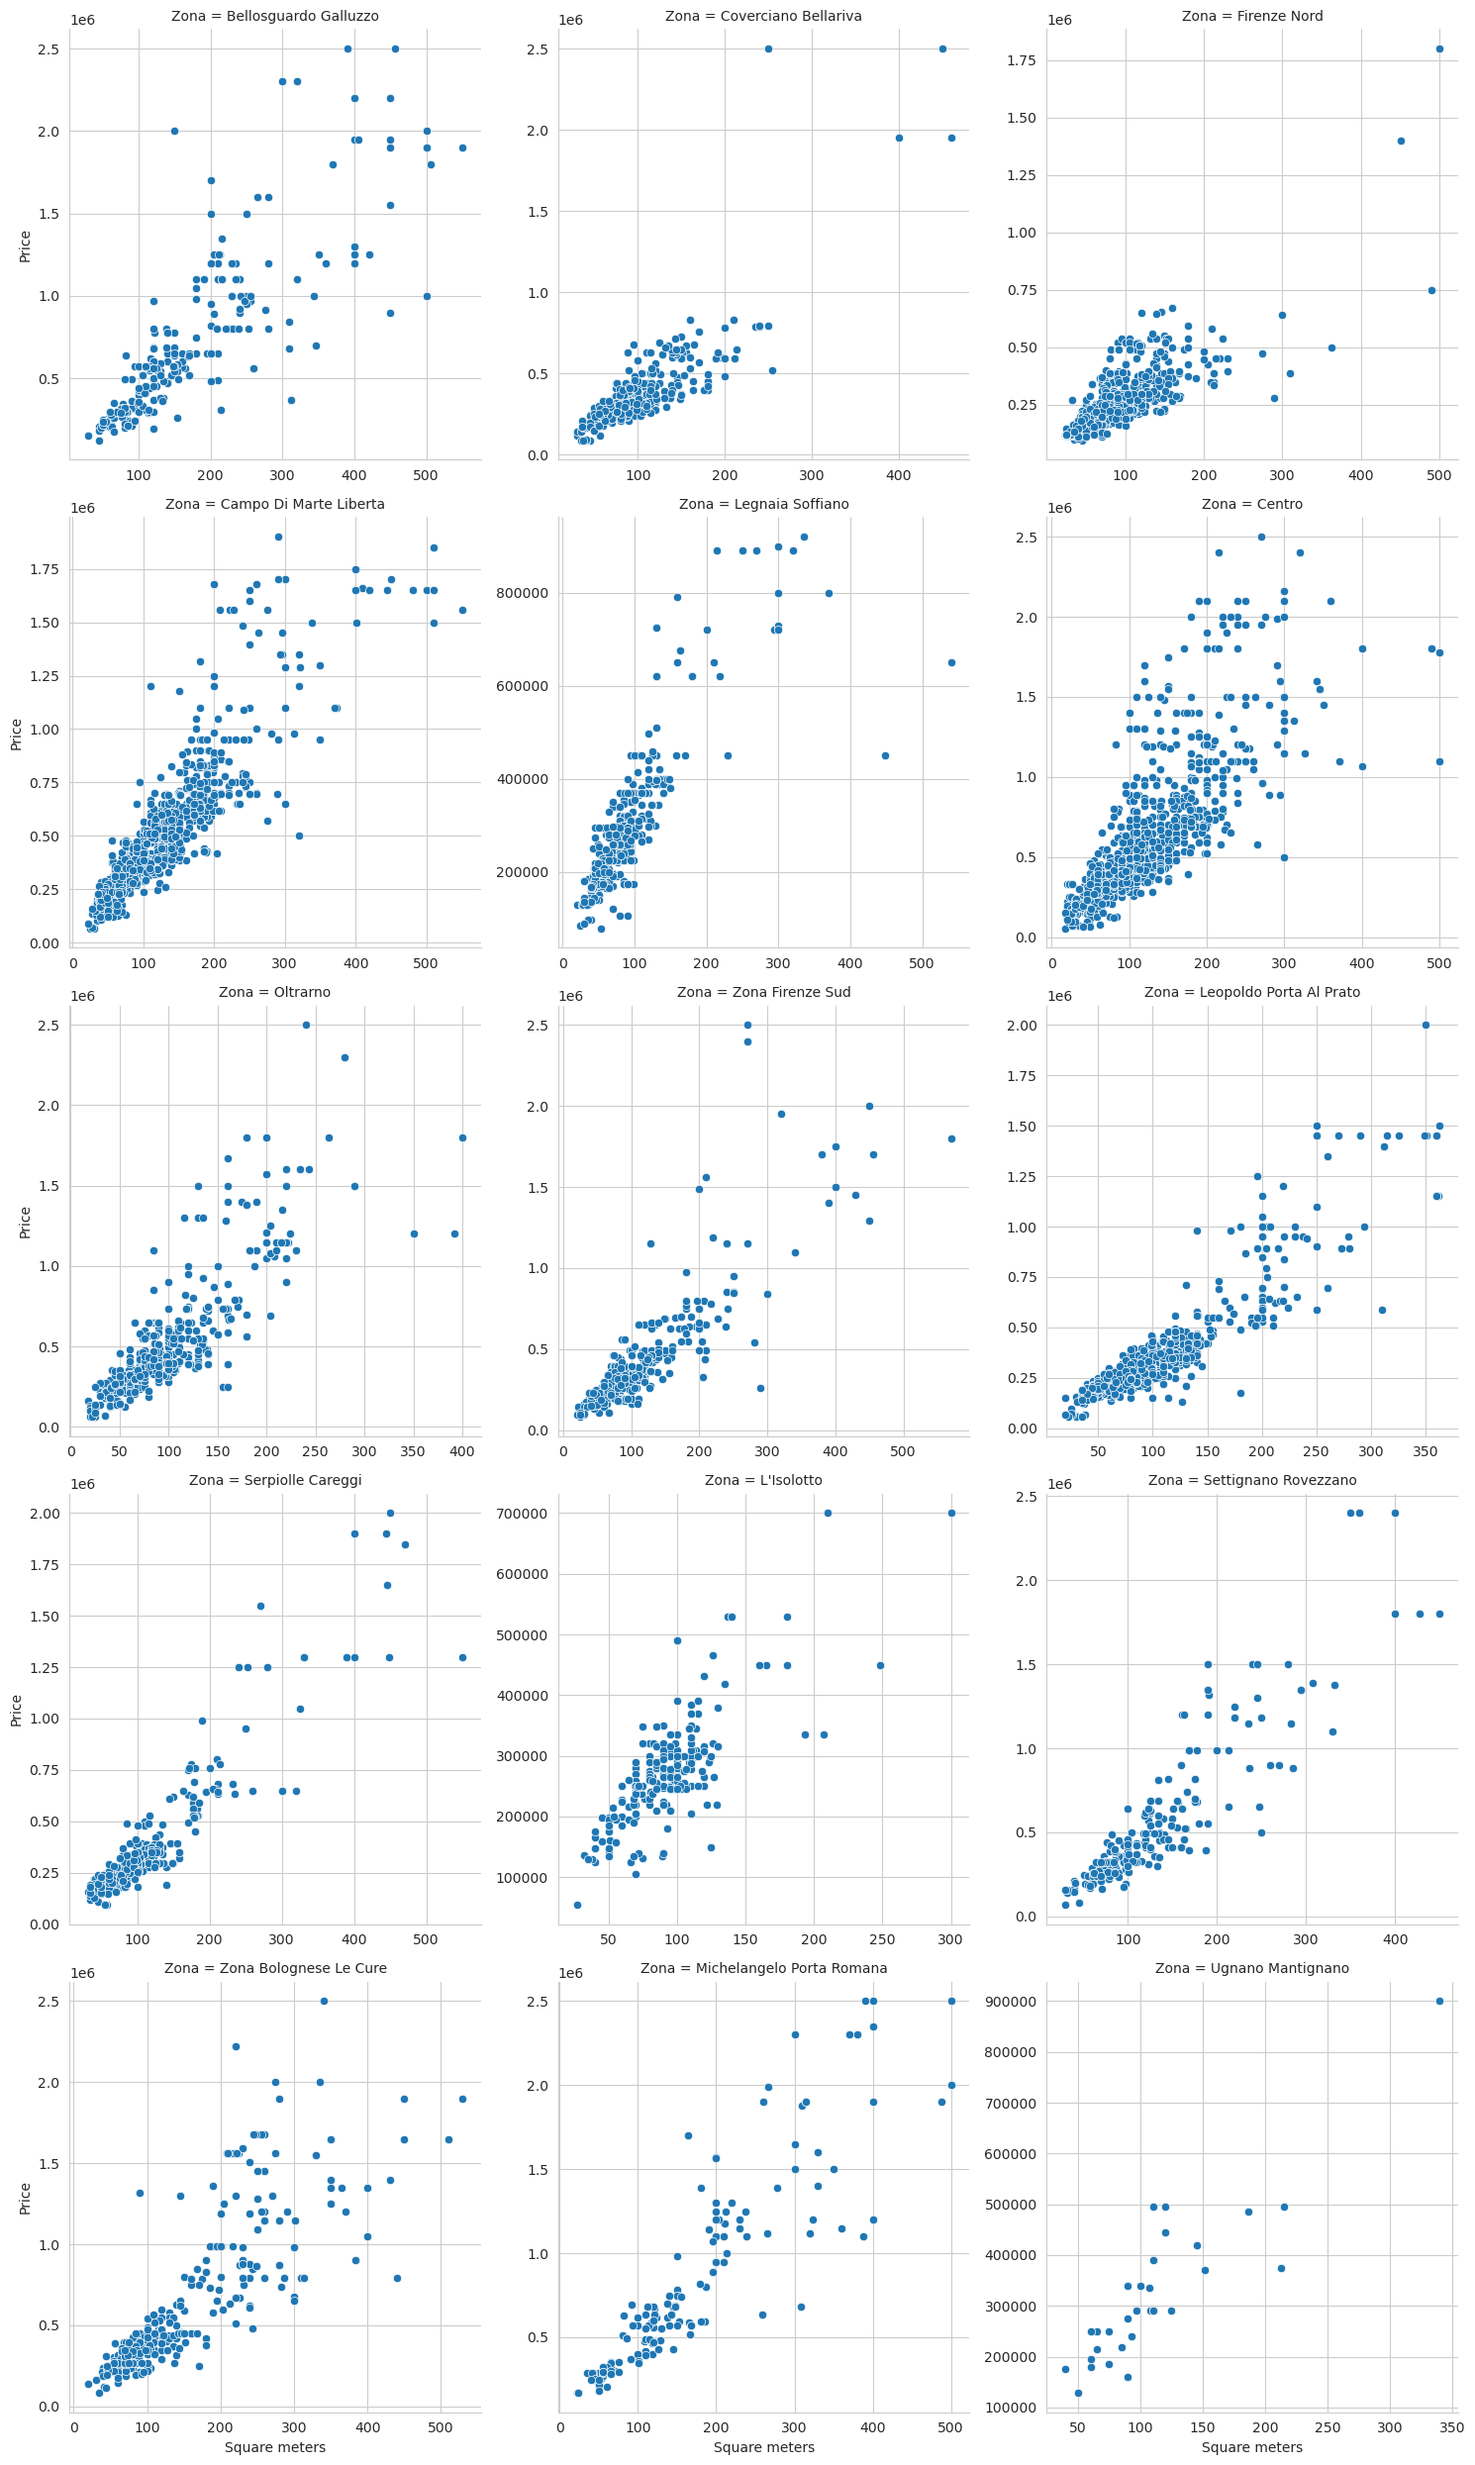
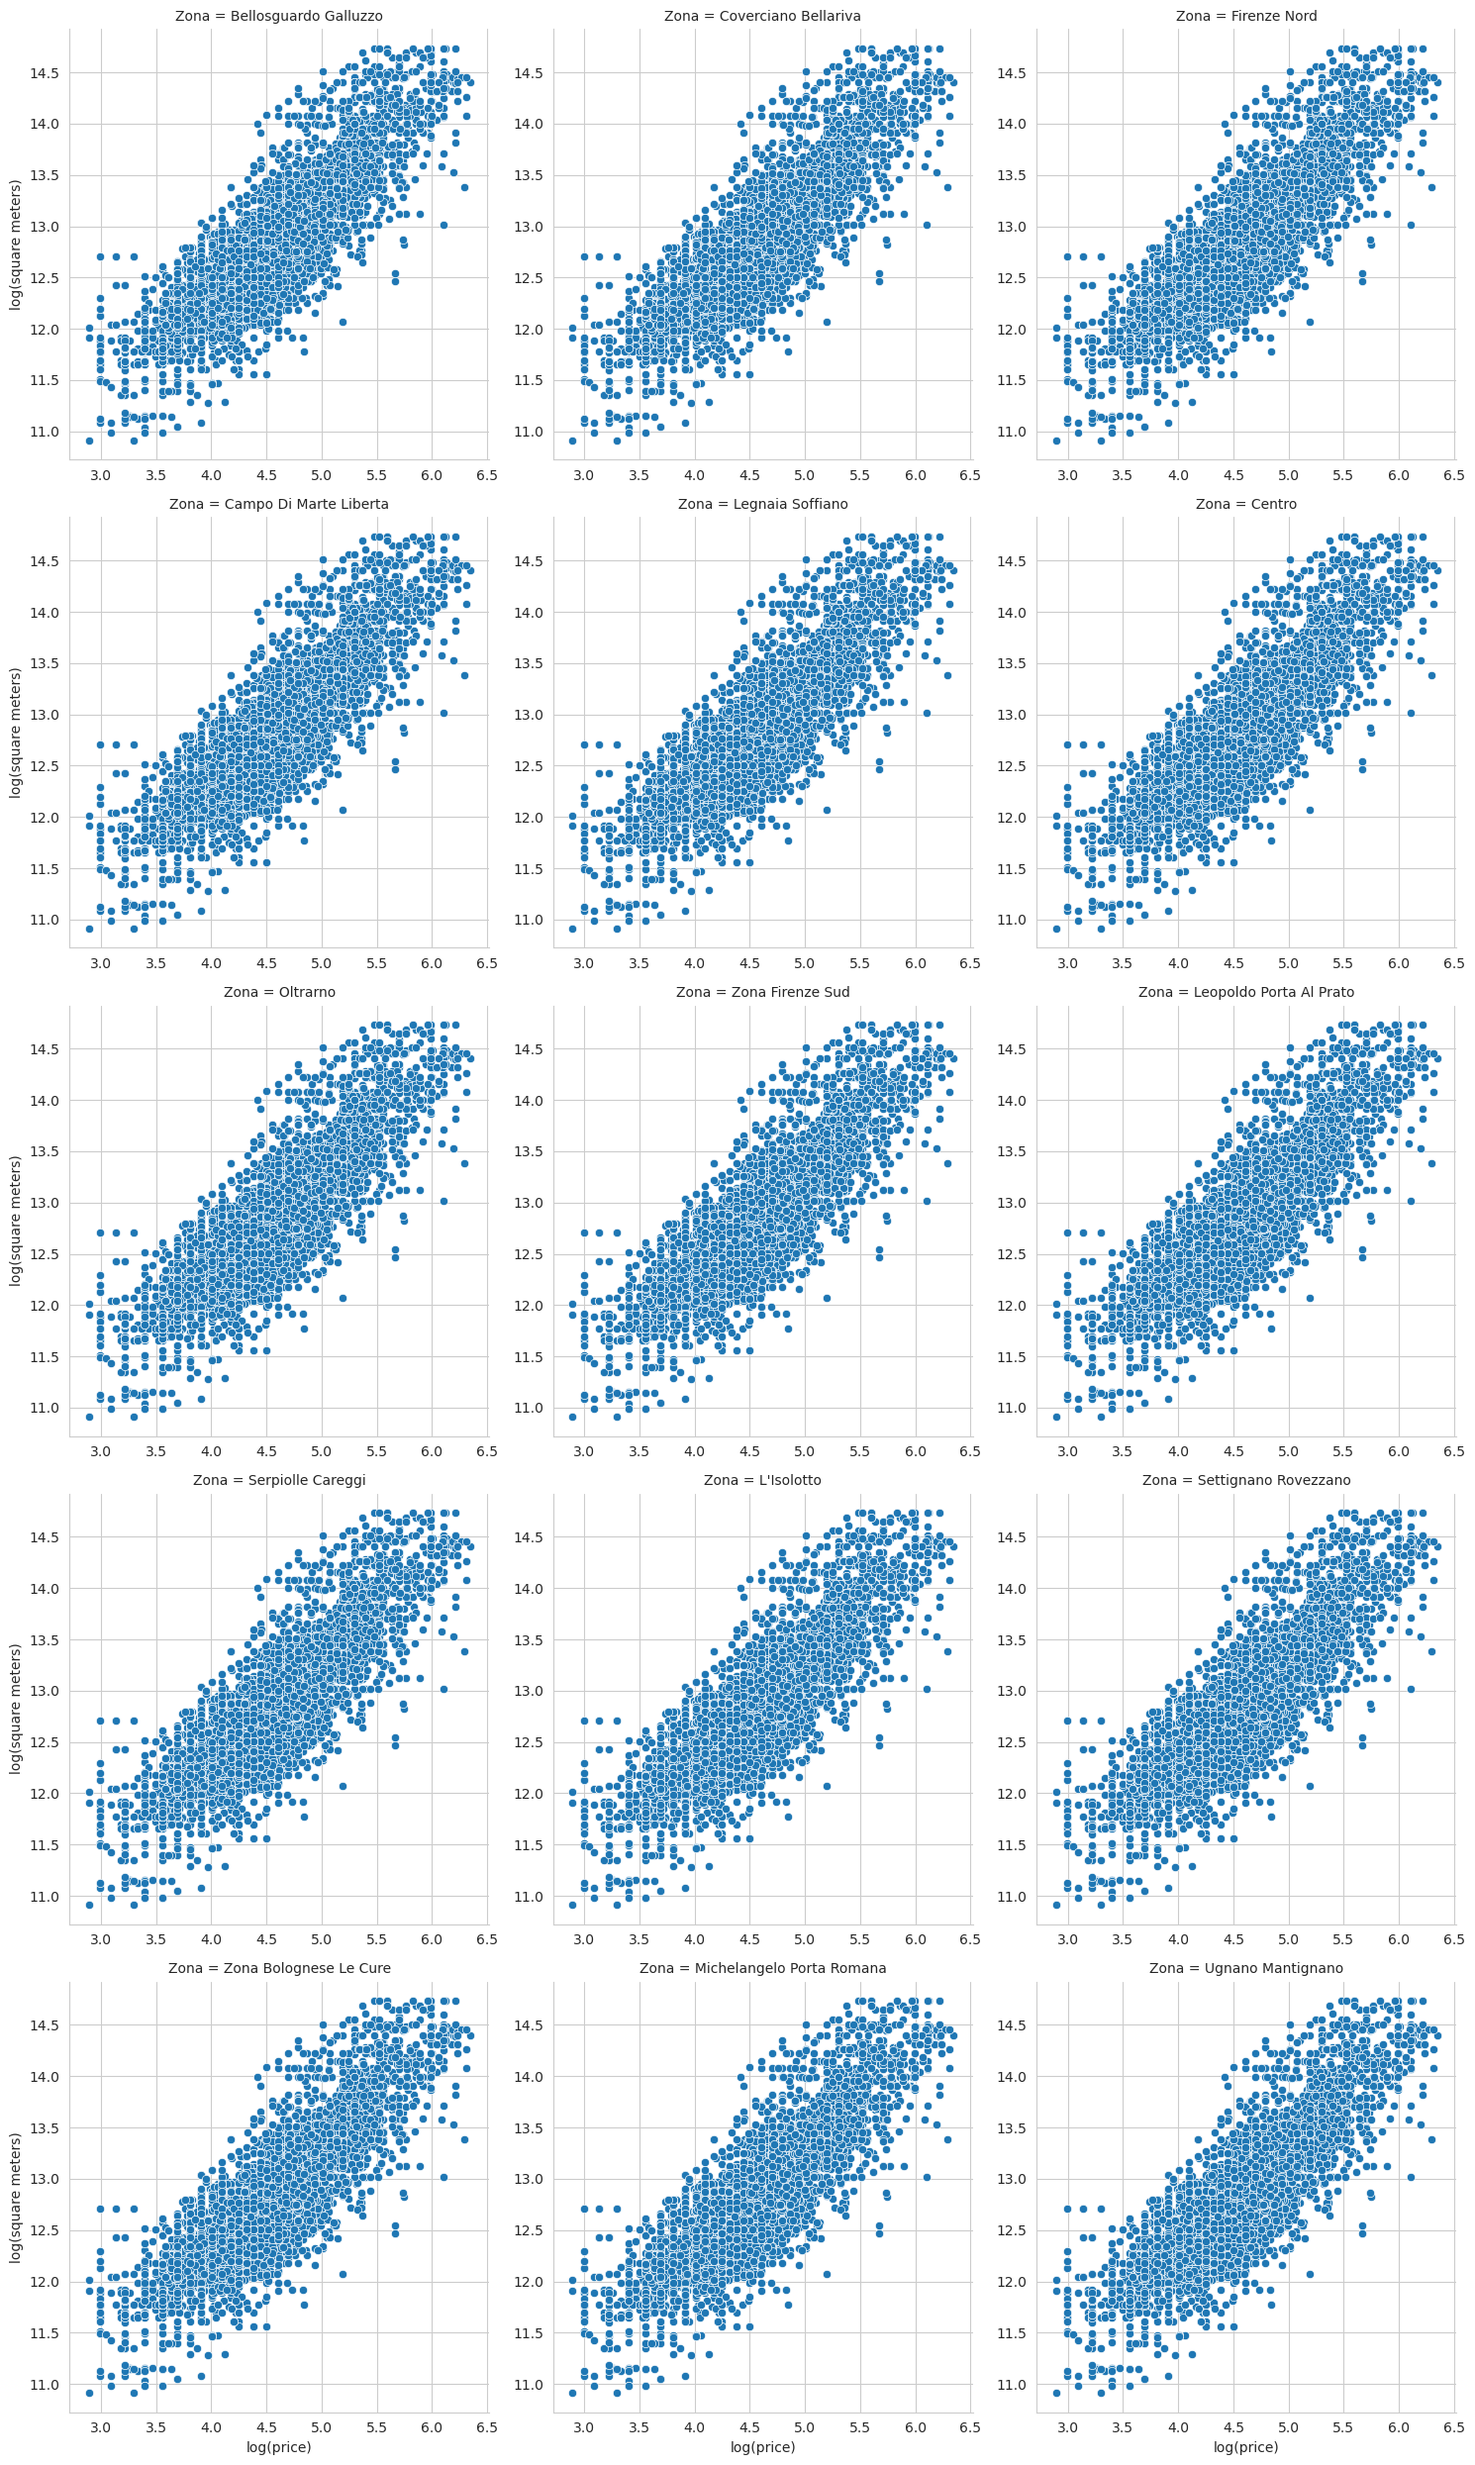
Add correlation plot to visualizations.

diff --git a/src/visualization/visualize.py b/src/visualization/visualize.py
@@ -7,7 +7,7 @@ import numpy as np
 import pandas as pd
 from src.features import parse_config
 from src.visualization import (histogram, boxplot, scatterplot, hist_per_district, scatter_per_district,
-							   ordered_barchart)
+							   ordered_barchart, correlation_plot)
 
 
 @click.command()
@@ -33,7 +33,7 @@ def main(input_filepath, output_filepath, config_file):
 	boxplots = boxplot(df, config['visualizing']['continuous_vars'], transformation=np.log)
 	boxplots.savefig(output_filepath + '/boxplots.png')
 
-	# Scatterplot
+	# Scatter plot
 	scatter = scatterplot(df, config['visualizing']['scatter_1'], config['visualizing']['scatter_2'],
 						  hue_data=df['Zona'], transformation=None)
 	scatter.savefig(output_filepath + '/scatter.png')
@@ -43,13 +43,17 @@ def main(input_filepath, output_filepath, config_file):
 											 config['visualizing']['facetgrid_var'], transformation=np.log)
 	facetgrid_histograms.savefig(output_filepath + '/facetgrid_histograms.png')
 
-	# Facetgrid scatterplots
-	facetgrid_scatters = scatter_per_district(df, config['visualizing']['facetgrid'], None, transformation=None)
+	# Facetgrid scatter plots
+	facetgrid_scatters = scatter_per_district(df, config['visualizing']['facetgrid_hue'], None, transformation=np.log)
 	facetgrid_scatters.savefig(output_filepath + '/facetgrid_scatters.png')
 
 	# Ordered barchart
 	barchart = ordered_barchart(df)
 	barchart.savefig(output_filepath + '/barchart.png')
+
+	# Correlation plot
+	corr_plot = correlation_plot(df, config['visualizing']['corr_cols'])
+	corr_plot.savefig(output_filepath + '/corr_plot.png')
 
 
 if __name__ == '__main__':

diff --git a/src/visualization/plotting_utils.py b/src/visualization/plotting_utils.py
@@ -87,6 +87,16 @@ def ordered_barchart(data):
 	return fig
 
 
+def correlation_plot(data, corr_cols):
+	"""Create a correlation plot for selected features of a DataFrame."""
+	fig = plt.figure(figsize=(8, 6))
+	cmap = sns.diverging_palette(220, 10, as_cmap=True)
+	sns.heatmap(data[corr_cols].corr(), linewidth=.5, cbar_kws={'shrink': .8}, cmap=cmap)
+	plt.title('Correlation between numerical features', weight='bold')
+	plt.tight_layout()
+	return fig
+
+
 def plot_predictions(train_values, cv_values, true_values):
 	"""Create scatter plots of the training set and cross-validation values vs. the true values."""
 	fig, ax = plt.subplots(figsize=(16, 8))

diff --git a/src/visualization/__init__.py b/src/visualization/__init__.py
@@ -1,1 +1,2 @@
-from .plotting_utils import histogram, boxplot, scatterplot, ordered_barchart, hist_per_district, scatter_per_district
+from .plotting_utils import (histogram, boxplot, scatterplot, ordered_barchart, hist_per_district, scatter_per_district,
+							 correlation_plot)
